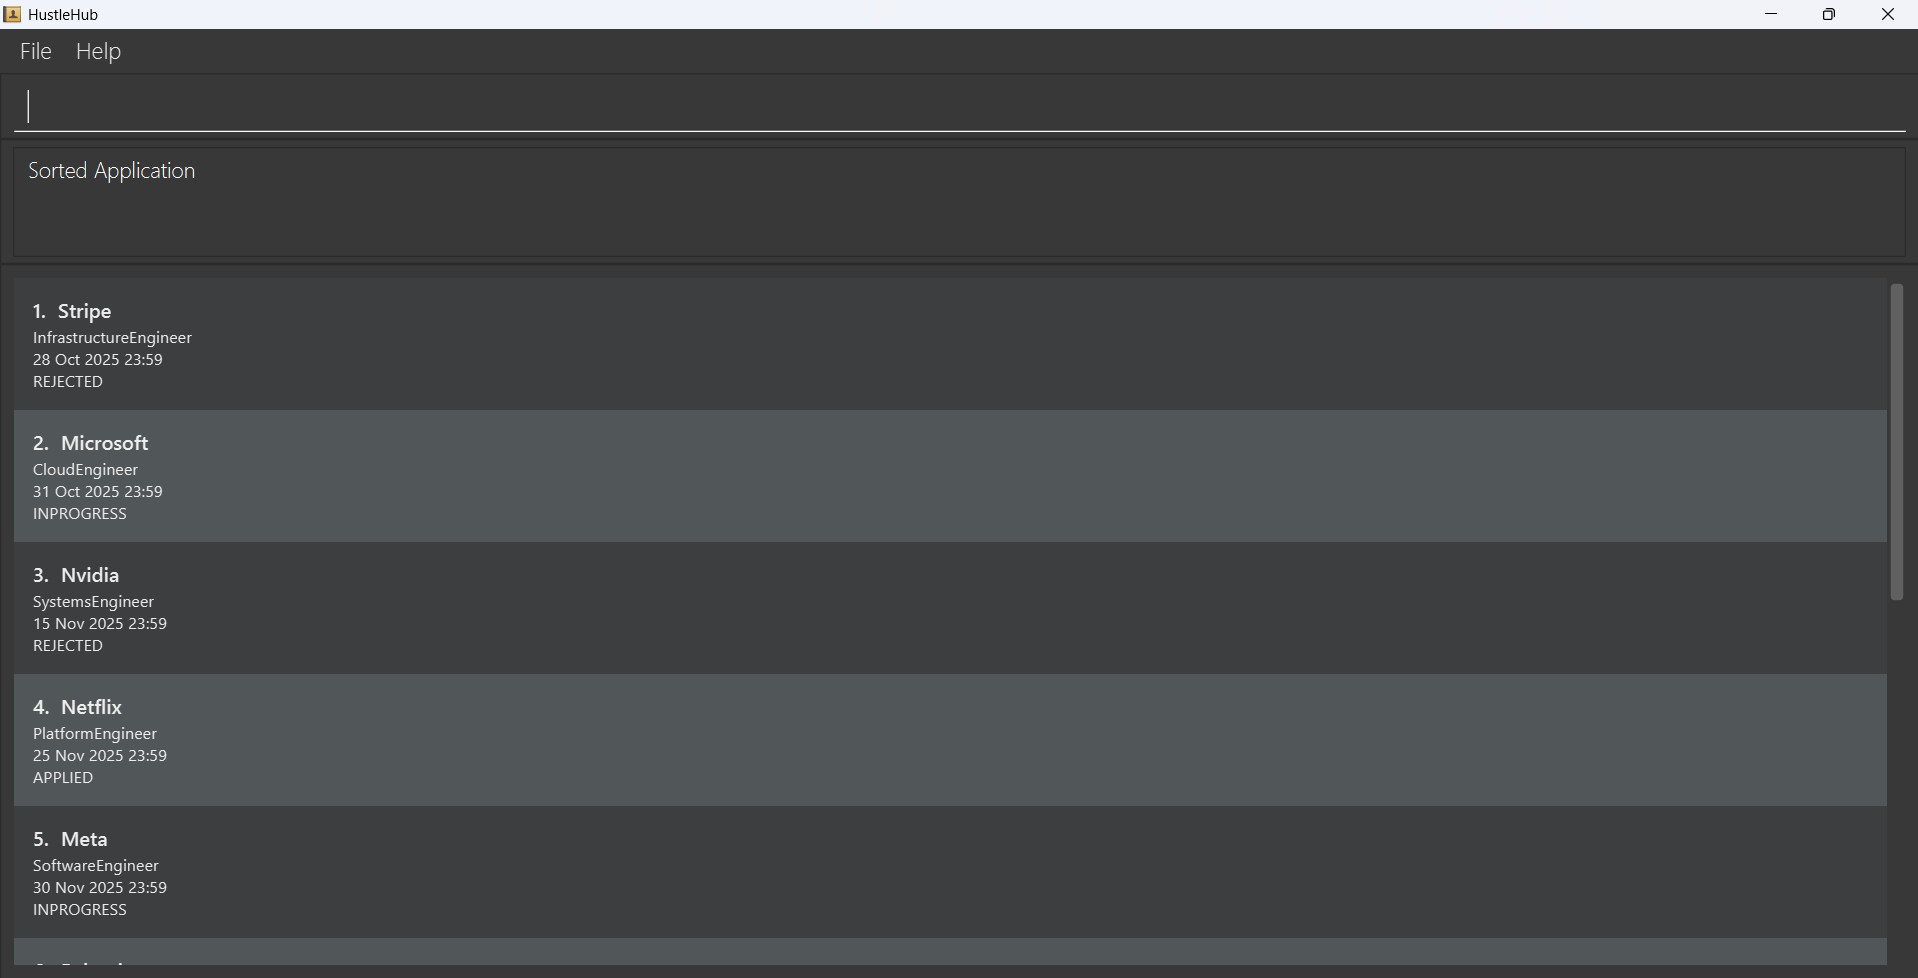
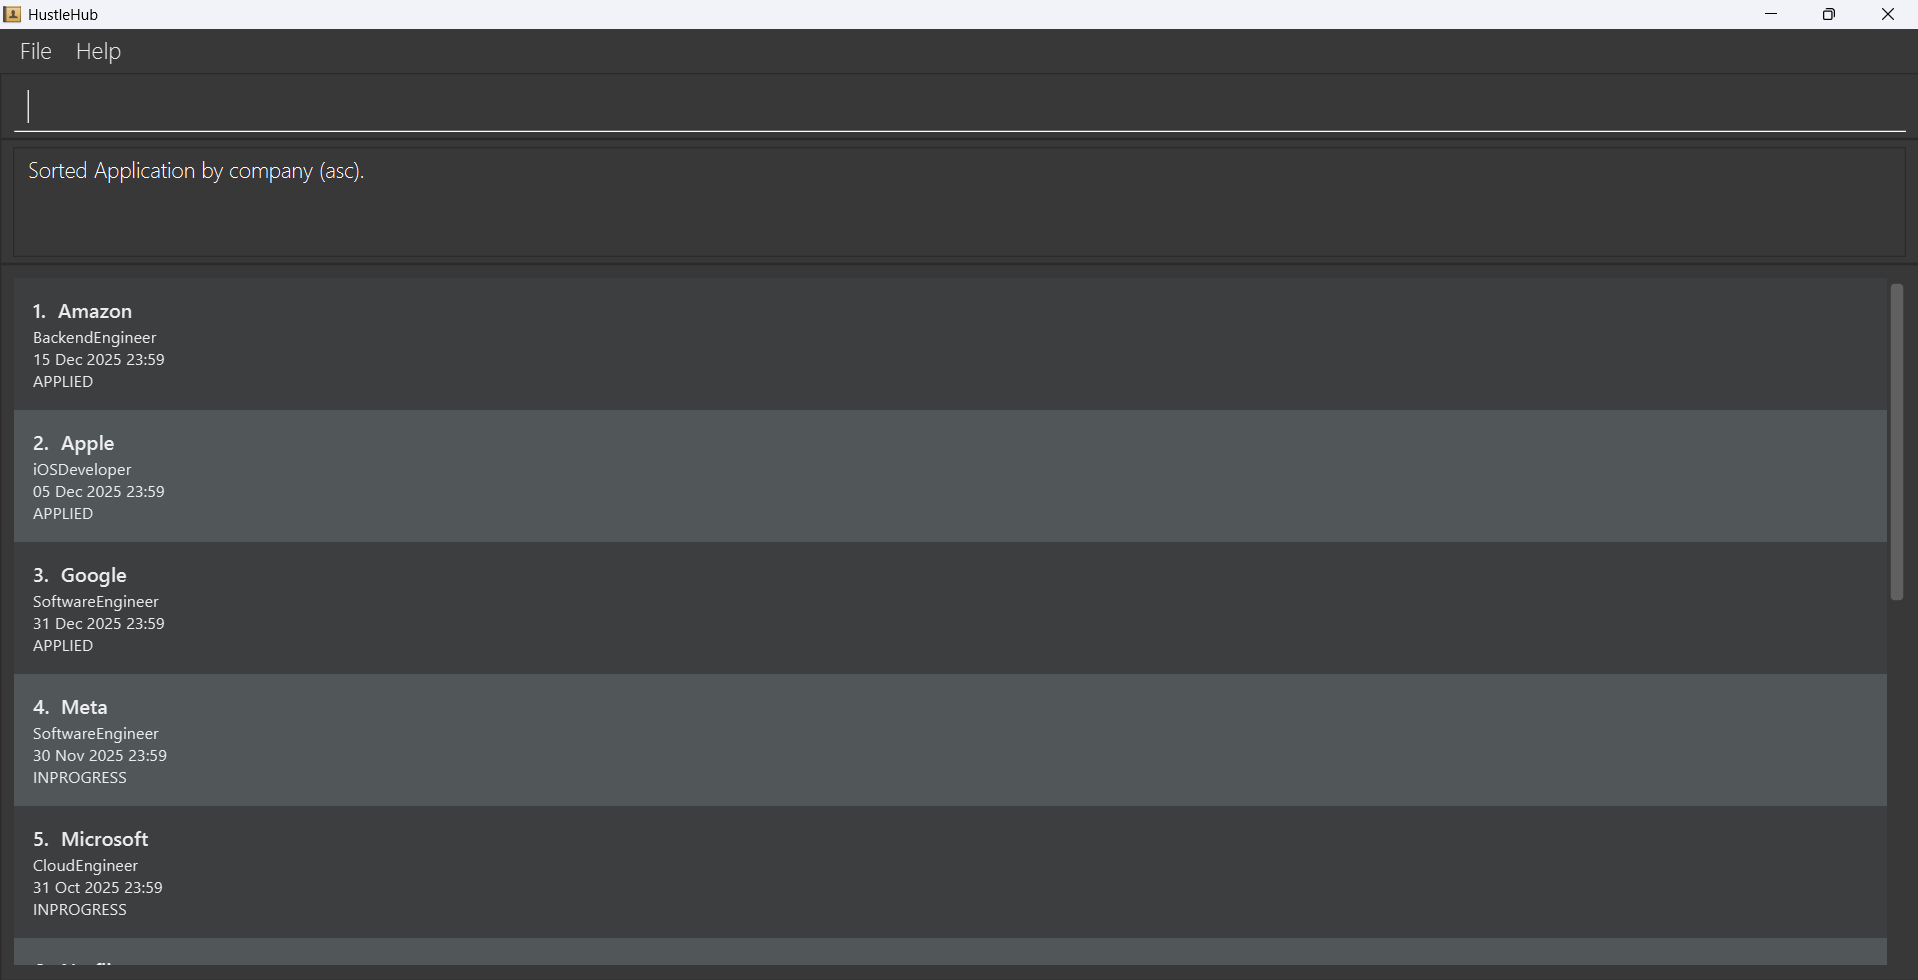
Update user guide and images

diff --git a/docs/UserGuide.md b/docs/UserGuide.md
@@ -32,7 +32,8 @@ AddressBook Level 3 (AB3) is a **desktop app for managing contacts, optimized fo
 
    * `delete 3` : Deletes the 3rd application shown in the current list.
 
-   * `sort` : Sorts the applications by the deadline.
+   * `sort deadline` : Sorts the applications by **deadline** (ascending by default). You can also sort by `company` or `role`, and use `desc`. e.g. `sort company desc`
+
 
    * `clear` : Deletes all applications.
 
@@ -81,7 +82,7 @@ Command  | Description                                  | Example
 Command  | Description                                  | Example
 -------- |----------------------------------------------|------------------
 **Add** | `add n/COMPANY_NAME r/ROLE s/STATUS d/DEADLINE [t/TAG]…` <br> e.g., `add n/Microsoft r/Cloud engineer s/INPROGRESS d/2025-10-31T23:59`
-**Sort** | `sort`
+**Sort** | `sort FIELD [ORDER]`<br> e.g., `sort deadline`, `sort company desc`, `sort role asc`
 **Delete** | `delete INDEX`<br> e.g., `delete 3`
 **Help** | `help`
 
@@ -201,20 +202,29 @@ Examples:
 
 ### Sorting the applications : `sort`
 
-Sorts the specified application from the application book.
+Sorts the current list of applications by a chosen field, in ascending or descending order.
 
-Format: `sort`
+**Format:** `sort FIELD [ORDER]`  
+- **FIELD**: `company` \| `role` \| `deadline`  
+- **ORDER** (optional): `asc` \| `desc` (default: `asc`)
 
-* No parameters.
-* Applies to the current application list (including any active filters).
-* The sorted order is shown immediately in the UI.
+**Notes**
+- Sorting is **stable** and **case-insensitive** for text fields (`company`, `role`).
+- When sorting by **deadline**, missing/invalid deadlines appear **last** for `asc` (and **first** for `desc`).
+
+**Examples**
+- `sort deadline`  
+- `sort company desc`  
+- `sort role asc`
 
 Before:
 
 ![sort_before.png](images/sort_before.png)
 
 After:
+
 ![sort_after.png](images/sort_after.png)
+
 
 
 ### Clearing all entries : `clear`
